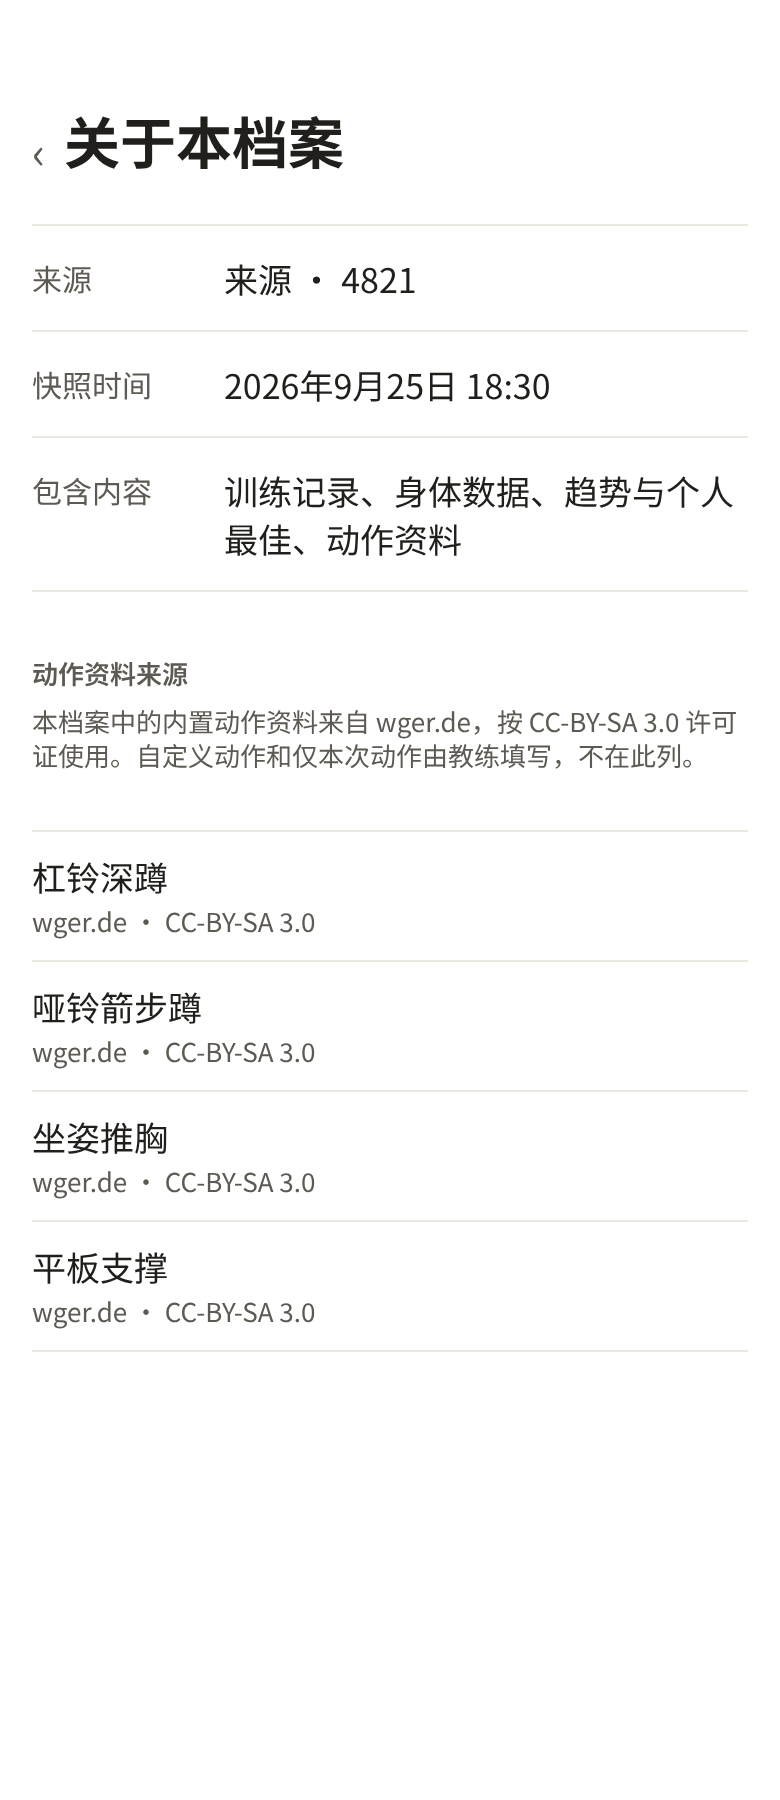
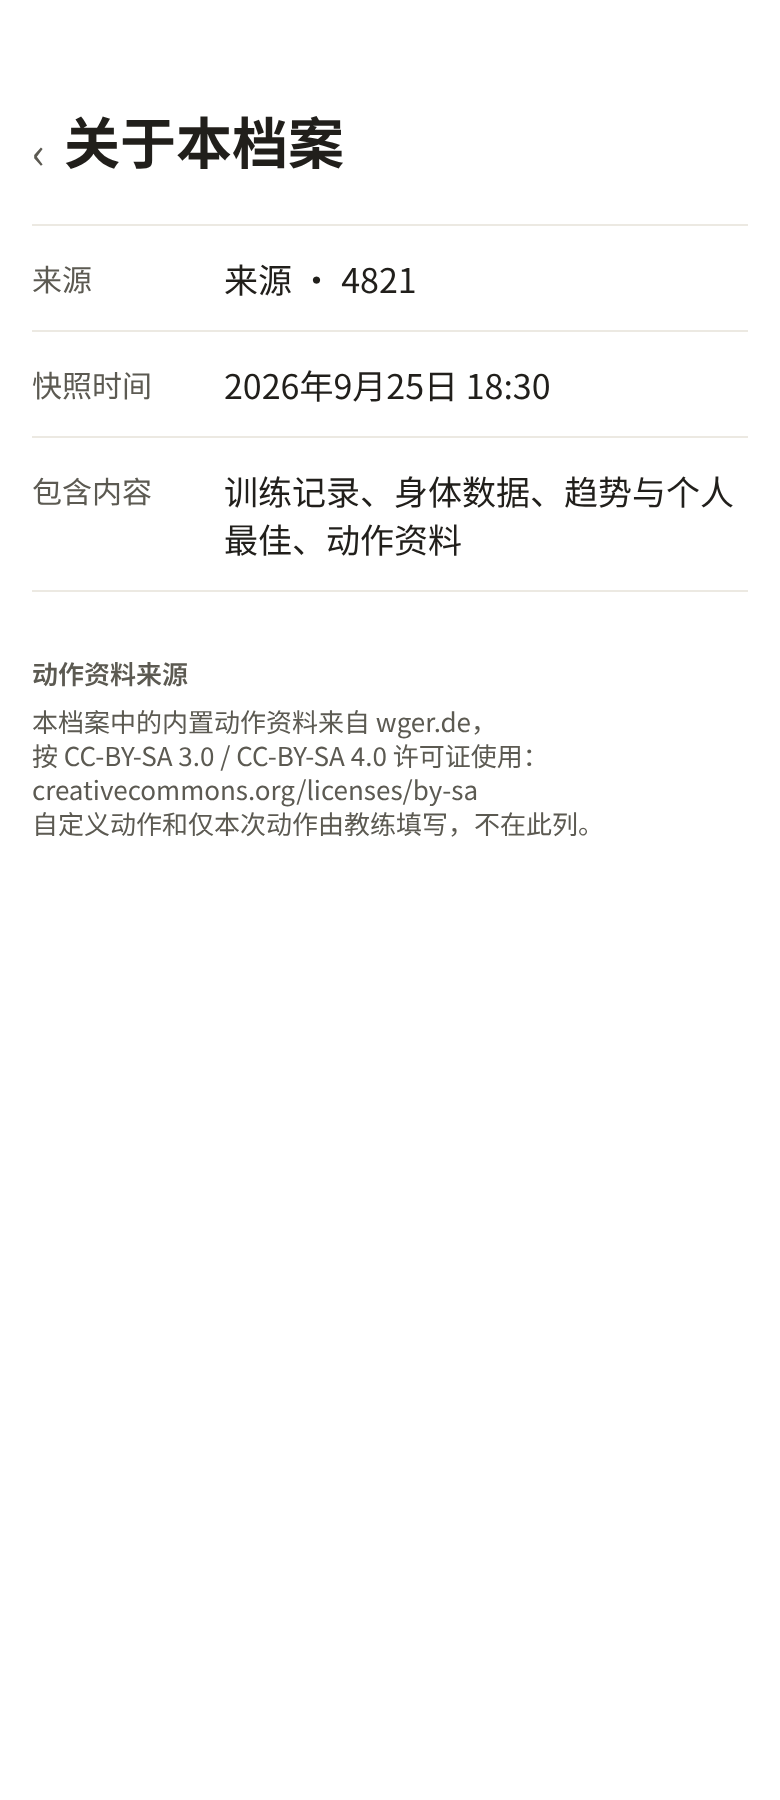
docs(m2): M2-17 aggregate attribution export (spec 1.1.3, D-008)
Replace the M2-17 hi-fi export with the aggregate attribution layout and
keep license names and the license URL on unbroken lines.

diff --git a/design/m2-hifi/implementation-map.md b/design/m2-hifi/implementation-map.md
@@ -89,7 +89,7 @@ feature 专有组件见 §4。共享组件的新增 / 扩展条目写在 `compon
 | M2-14 | 身体数据 | 复用 06 的结构（`DS-PAGE-HEADER` + `DS-SECTION` + 指标行：标签 `callout`、数值 `numeralLarge`、单位 `caption`）；**去掉**学员名和「＋ 自定义指标」；底部「单位 · kg / cm（可在设置中切换）」。单个指标的全部测量沿用 M1 身体数据历史列表的只读形态，不另画 | 只含已选指标（与 M2-02b 一致：体重、体脂率） | M2-FR-030、032 |
 | M2-15 | 趋势与个人最佳 | `DS-PAGE-HEADER`（「趋势与个人最佳」）→ `DS-LABEL-VALUE-ROW`「动作 / 动作 1 ›」→ `DS-SEGMENTED`「重量 / 次数 / 容量」→ 折线图（沿用 M1 `TrendsView` 现有 Swift Charts 实现；M1 没有该图的高保真画稿，画板中的折线只示意位置，图层标为 `M2-TREND-CHART`，不构成新的视觉规格）→ `DS-SECTION`「个人最佳」→ 32 的个人最佳行 | 未含动作资料（占位编号） | M2-FR-030、009 |
 | M2-16 | 动作资料 | `DS-PAGE-HEADER`（「动作资料」，副标题「本档案出现的 16 个动作」）→ `DS-TEXT-FIELD` 搜索框 → `DS-LIST-ROW`（leading `DS-EQUIPMENT-ICON`；标题 `headline` 动作名；副文字「主：胸 · 次：肩、臂 · 杠铃」；不可点）+ 分割线 | 内置动作与自定义动作混排；自定义动作没有器材图标时 leading 留空位 | M2-FR-045；AC-011 |
-| M2-17 | 关于本档案 | `DS-PAGE-HEADER`（「关于本档案」）→ `DS-LABEL-VALUE-ROW` ×3（来源、快照时间、包含内容）→ `DS-SECTION`「动作资料来源」→ `caption` 汇总署名段（来源 wger.de + 本档案涉及的许可证名称与链接，例如「部分动作资料来自 wger.de，按 CC-BY-SA 3.0 / CC-BY-SA 4.0 许可使用」；不逐动作列出，spec Revision 1.1.3；Penpot 已回填，快照「M2-17 aggregate attribution (spec 1.1.3) 2026-10-10」；`screens/` 中 M2-17 导出图待产品负责人 2 倍重导出后替换） | 含动作资料与内置动作；未含动作资料时没有「动作资料来源」区段 | M2-FR-046；D-007、D-008 |
+| M2-17 | 关于本档案 | `DS-PAGE-HEADER`（「关于本档案」）→ `DS-LABEL-VALUE-ROW` ×3（来源、快照时间、包含内容）→ `DS-SECTION`「动作资料来源」→ `caption` 汇总署名段（来源 wger.de + 本档案涉及的许可证名称与链接，例如「部分动作资料来自 wger.de，按 CC-BY-SA 3.0 / CC-BY-SA 4.0 许可使用」；不逐动作列出，spec Revision 1.1.3；许可证名称与链接各占整行、不跨行拆开；Penpot 已回填，快照「M2-17 attribution line breaks fix 2026-10-10」；`screens/` 中 M2-17 已于 2026-10-10 按 2 倍重导出替换） | 含动作资料与内置动作；未含动作资料时没有「动作资料来源」区段 | M2-FR-046；D-007、D-008 |
 | M2-18 | 查看模式设置 | `DS-PAGE-HEADER`（「设置」）→ `DS-SECTION`「显示」→ `DS-LABEL-VALUE-ROW` ×3，值 slot 为 `DS-SEGMENTED`（C11）：重量「kg / lb」、围度与身高「cm / in」、列表密度「标准 / 紧凑」→ `caption`「只改变这台设备上的显示，不改变档案内容」→ `DS-SECTION`「档案」→ `DS-ACTION-ROW`「导入较新档案 ›」→ `DS-ACTION-ROW` destructive「删除本机档案」，**带 leading 垃圾桶图标**（`DS-ACTION-ROW` 扩展，NFR-005 要求危险删除同时用文字和图标） | 默认 | M2-FR-032、041；D-010 |
 | M2-19a | 导入较新档案 · 确认替换 | `DS-PAGE-HEADER`（「导入较新档案」，副标题「新档案会整体替换当前档案，不会逐条合并」）→ `DS-SECTION`「当前档案」+ `DS-LABEL-VALUE-ROW` ×3 → `DS-SECTION`「新档案」+ `DS-LABEL-VALUE-ROW` ×3 → 主按钮「替换为新档案」 | 同来源同学员、较新（选择文件与输入密码复用 M2-08 的组件，不另画） | M2-FR-036～038 |
 | M2-19b | 导入较新档案 · 被拒绝 | 同 19a 的页头 → 可点的文件行、密码框、「导入」（同 M2-08）→ `DS-INLINE-RESULT` 失败「无法替换」/「这份档案不比当前档案新。当前档案没有改变。」+「重试」 | 较旧 / 同时间；其他原因类别见 §5 | M2-FR-039 |
